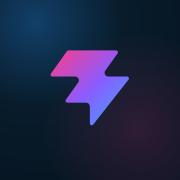
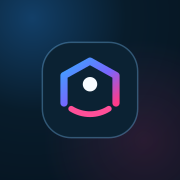
Align UI with master reference

diff --git a/src/platform/experience.css b/src/platform/experience.css
@@ -42,6 +42,7 @@
 }
 .pl-home-v7__identity { display: flex; align-items: center; gap: 8px; }
 .pl-home-v7__identity > span { display: grid; place-items: center; width: 28px; height: 28px; border-radius: 9px; background: linear-gradient(145deg, #ff3b89, #785cff 58%, #35b8ff); color: white; box-shadow: 0 0 20px rgba(120,92,255,.3); }
+.pl-home-v7__identity > img { display: block; width: 116px; height: auto; }
 .pl-home-v7__brand { margin: 0; font-size: 17px; font-weight: 900; }
 .pl-icon-button {
   display: inline-grid; place-items: center; width: 44px; height: 44px; border: 1px solid var(--xp-line);
@@ -120,6 +121,10 @@
 
 /* Shared page header, discover and spatial views */
 .pl-page-intro { display: grid; gap: 6px; padding: 8px 2px 0; }
+.pl-page-intro--actions { grid-template-columns: minmax(0,1fr) auto; align-items: start; gap: 14px; }
+.pl-page-intro__actions { display: inline-flex; gap: 7px; }
+.pl-page-intro__actions button { display: grid; place-items: center; width: 44px; height: 44px; border: 1px solid var(--xp-line); border-radius: 50%; background: rgba(12,29,48,.72); color: white; backdrop-filter: blur(18px); }
+.pl-page-intro__actions button[data-active='true'] { border-color: rgba(242,202,114,.38); background: rgba(242,202,114,.14); color: var(--xp-warm); }
 .pl-page-intro p, .pl-page-intro h1, .pl-page-intro span { margin: 0; }
 .pl-page-intro p { color: var(--xp-warm); font-size: 10px; font-weight: 900; }
 .pl-page-intro h1 { max-width: 14ch; font-family: var(--font-display); font-size: 34px; line-height: 1.08; }
@@ -185,6 +190,11 @@
 .pl-schedule-row__body strong, .pl-schedule-row__body small { overflow: hidden; text-overflow: ellipsis; white-space: nowrap; }
 .pl-schedule-row__body small { color: var(--xp-muted); font-size: 11px; }
 .pl-schedule-row__body em { width: fit-content; display: flex; align-items: center; gap: 3px; color: #ff718b; font-size: 9px; font-style: normal; font-weight: 900; }
+.pl-schedule-preview { display: grid; gap: 8px; }
+.pl-schedule-preview__note { margin: 6px 2px 2px; color: #8bc3ff; font-size: 10px; font-weight: 850; }
+.pl-schedule-row--preview { opacity: .84; cursor: default; }
+.pl-schedule-row--preview .pl-schedule-row__media { display: grid; place-items: center; border: 1px solid rgba(139,195,255,.18); background: linear-gradient(145deg, rgba(57,140,255,.2), rgba(255,59,137,.08)), #0c2138; }
+.pl-schedule-row--preview .pl-schedule-row__media > span { color: rgba(255,255,255,.64); font-size: 8px; font-weight: 900; }
 
 /* Floating fan navigation */
 .pl-nav--fan { left: 10px; right: 10px; bottom: calc(8px + env(safe-area-inset-bottom)); height: 70px; padding: 0; border: 1px solid rgba(255,255,255,.16); border-radius: 22px; background: rgba(18,18,20,.78); box-shadow: 0 16px 46px rgba(0,0,0,.48); backdrop-filter: blur(24px) saturate(1.15); -webkit-backdrop-filter: blur(24px) saturate(1.15); }
@@ -322,6 +332,12 @@
 .pl-ranking__score { display: grid; justify-items: end; color: var(--xp-warm); font-weight: 900; }
 .pl-ranking__score small { color: var(--xp-muted); font-size: 8px; }
 .pl-ranking__message { margin: 7px 0 0; padding: 16px; border: 1px solid rgba(242,202,114,.18); border-radius: 18px; background: linear-gradient(135deg, rgba(242,202,114,.1), rgba(75,163,255,.08)); color: rgba(255,255,255,.78); font-size: 12px; font-weight: 750; line-height: 1.6; text-align: center; }
+.pl-ranking__row:nth-of-type(1) { border-color: rgba(242,202,114,.42); background: linear-gradient(100deg, rgba(242,202,114,.15), rgba(12,29,48,.76) 48%); }
+.pl-ranking__row:nth-of-type(2) { border-color: rgba(205,220,234,.3); background: linear-gradient(100deg, rgba(205,220,234,.1), rgba(12,29,48,.74) 48%); }
+.pl-ranking__row:nth-of-type(3) { border-color: rgba(214,145,103,.28); background: linear-gradient(100deg, rgba(214,145,103,.1), rgba(12,29,48,.74) 48%); }
+.pl-ranking__row:nth-of-type(1) .pl-ranking__place { color: #f2ca72; }
+.pl-ranking__row:nth-of-type(2) .pl-ranking__place { color: #dbe8f2; }
+.pl-ranking__row:nth-of-type(3) .pl-ranking__place { color: #d69167; }
 
 .pl-spatial-map { min-height: 52dvh; background: #0d2940; }
 .pl-spatial-map__glow { background: radial-gradient(70% 60% at 70% 20%, rgba(75,163,255,.22), transparent 72%), linear-gradient(145deg, rgba(8,34,55,.2), rgba(5,18,33,.72)); }
@@ -354,13 +370,29 @@
 .pl-profile-stage__name { font-size: 38px; }
 .pl-profile-stage__body { bottom: 17px; }
 
-.pl-merch-market-hero { margin: 0; padding: 18px; border: 1px solid var(--xp-line); border-radius: 24px; background: radial-gradient(90% 120% at 100% 0%, rgba(75,163,255,.2), transparent 64%), rgba(12,29,48,.78); box-shadow: 0 18px 45px rgba(0,7,18,.3); }
+.pl-merch-market-hero { position: relative; margin: 0; padding: 18px 58px 18px 18px; border: 1px solid var(--xp-line); border-radius: 24px; background: radial-gradient(90% 120% at 100% 0%, rgba(75,163,255,.2), transparent 64%), rgba(12,29,48,.78); box-shadow: 0 18px 45px rgba(0,7,18,.3); }
 .pl-merch-market-hero p { color: #8bc3ff; }
 .pl-merch-market-hero h1 { font-size: 28px; }
+.pl-merch-market-hero__cart { position: absolute; top: 14px; right: 14px; display: grid; place-items: center; width: 42px; height: 42px; border: 1px solid var(--xp-line); border-radius: 50%; background: rgba(5,18,33,.52); color: white; }
 .pl-merch-card__photo { border: 1px solid rgba(255,255,255,.12); background: #0c2138; box-shadow: 0 12px 30px rgba(0,6,16,.28); }
 .pl-merch-card__photo > span { background: linear-gradient(145deg, rgba(75,163,255,.16), rgba(255,59,137,.08)), #0c2138; }
 .pl-merch-card__body p { color: #8bc3ff; }
 .pl-merch-card__cta { border: 1px solid var(--xp-line); background: rgba(12,29,48,.72); }
+.pl-merch-preview { display: grid; gap: 14px; }
+.pl-merch-preview > header { display: flex; align-items: end; justify-content: space-between; gap: 12px; }
+.pl-merch-preview > header p, .pl-merch-preview > header h2, .pl-merch-preview > header span { margin: 0; }
+.pl-merch-preview > header p { color: #8bc3ff; font-size: 9px; font-weight: 900; }
+.pl-merch-preview > header h2 { margin-top: 3px; font-size: 20px; }
+.pl-merch-preview > header span { max-width: 12ch; color: var(--xp-muted); font-size: 9px; line-height: 1.4; text-align: right; }
+.pl-merch-card--preview { opacity: .94; }
+.pl-merch-card--preview .pl-merch-card__photo { cursor: default; }
+.pl-merch-card__photo--preview { display: grid; place-items: center; }
+.pl-merch-card__photo--preview > span { display: grid; place-items: center; color: rgba(255,255,255,.72); font-size: 12px; font-weight: 900; letter-spacing: .12em; }
+.pl-merch-card__photo--1 > span { background: linear-gradient(145deg, rgba(66,160,255,.46), rgba(9,30,52,.82)); }
+.pl-merch-card__photo--2 > span { background: linear-gradient(145deg, rgba(255,59,137,.34), rgba(20,31,57,.86)); }
+.pl-merch-card__photo--3 > span { background: linear-gradient(145deg, rgba(117,94,255,.4), rgba(8,33,55,.88)); }
+.pl-merch-card__photo--4 > span { background: linear-gradient(145deg, rgba(242,202,114,.3), rgba(13,35,57,.88)); }
+.pl-merch-card--preview .pl-merch-card__cta:disabled { cursor: default; opacity: .62; }
 .pl-merch-empty-next { border-color: var(--xp-line); background: rgba(12,29,48,.72); }
 .pl-merch-empty-next .pl-btn, .pl-profile-auth-cta { background: #398cff; color: white; box-shadow: 0 12px 30px rgba(57,140,255,.24); }
 
@@ -412,12 +444,12 @@
 .pl-splash__video { position: absolute; z-index: -2; inset: 0; width: 100%; height: 100%; object-fit: cover; object-position: center 20%; }
 .pl-splash__shade { position: absolute; z-index: -1; inset: 0; background: linear-gradient(180deg, rgba(3,12,23,.18), rgba(4,14,26,.35) 42%, rgba(4,14,26,.97)); }
 .pl-splash__content { position: absolute; left: 24px; right: 24px; bottom: calc(28px + env(safe-area-inset-bottom)); display: grid; gap: 10px; }
-.pl-splash__logo { margin-bottom: 4px; }
+.pl-splash__logo { width: 168px; height: auto; margin-bottom: 4px; }
 .pl-splash__content p, .pl-splash__content h1 { margin: 0; }
 .pl-splash__content p { color: #9bc9f6; font-size: 10px; font-weight: 900; }
 .pl-splash__content h1 { max-width: none; font-family: var(--font-display); font-size: 46px; line-height: 1.02; white-space: nowrap; }
 .pl-splash__content button { min-height: 54px; display: flex; align-items: center; justify-content: space-between; margin-top: 14px; padding: 0 18px; border: 0; border-radius: 17px; background: #f5f9ff; color: #071322; font-weight: 900; }
-.pl-boot-logo { display: block; margin: min(28dvh, 220px) auto 18px; filter: drop-shadow(0 0 24px rgba(120,92,255,.34)); }
+.pl-boot-logo { display: block; width: 164px; height: auto; margin: min(28dvh, 220px) auto 18px; filter: drop-shadow(0 0 24px rgba(75,163,255,.26)); }
 
 .pl-install-card { position: relative; display: grid; grid-template-columns: 40px minmax(0,1fr) auto; align-items: center; gap: 11px; padding: 12px 42px 12px 12px; border: 1px solid rgba(125,183,236,.2); border-radius: 20px; background: linear-gradient(135deg, rgba(57,140,255,.14), rgba(255,59,137,.07)), rgba(9,27,46,.78); box-shadow: 0 14px 38px rgba(0,7,18,.25); backdrop-filter: blur(22px); -webkit-backdrop-filter: blur(22px); }
 .pl-install-card__icon { display: grid; place-items: center; width: 40px; height: 40px; border-radius: 13px; background: linear-gradient(135deg, rgba(255,59,137,.88), rgba(75,163,255,.92)); color: white; }

diff --git a/src/platform/screens/SearchScreen.tsx b/src/platform/screens/SearchScreen.tsx
@@ -4,7 +4,7 @@ import { getFeaturedEvent, listVoteRankingNamed, searchPerformers } from '../lib
 import type { Performer } from '../lib/types'
 
 type SearchProps = { onOpenPerformer: (id: string) => void; onWatchLive?: (id: string) => void }
-type DiscoverMode = 'all' | 'live' | 'popular' | 'new' | 'ranking'
+type DiscoverMode = 'all' | 'popular' | 'new' | 'genre' | 'ranking'
 type RankingPeriod = 'today' | 'week' | 'month'
 
 export function SearchScreen({ onOpenPerformer, onWatchLive }: SearchProps) {
@@ -12,6 +12,7 @@ export function SearchScreen({ onOpenPerformer, onWatchLive }: SearchProps) {
   const [genre, setGenre] = useState('')
   const [mode, setMode] = useState<DiscoverMode>('all')
   const [rankingPeriod, setRankingPeriod] = useState<RankingPeriod>('today')
+  const [searchOpen, setSearchOpen] = useState(false)
   const [filtersOpen, setFiltersOpen] = useState(false)
   const [region, setRegion] = useState('')
   const [rows, setRows] = useState<Performer[]>([])
@@ -25,7 +26,7 @@ export function SearchScreen({ onOpenPerformer, onWatchLive }: SearchProps) {
     setLoading(true)
     setError(null)
     const timer = window.setTimeout(() => {
-      searchPerformers(q, { liveOnly: mode === 'live', genre, country: region })
+      searchPerformers(q, { genre, country: region })
         .then((result) => { if (active) setRows(result) })
         .catch(() => { if (active) setError('検索できませんでした。通信を確認して、もう一度お試しください。') })
         .finally(() => { if (active) setLoading(false) })
@@ -52,23 +53,25 @@ export function SearchScreen({ onOpenPerformer, onWatchLive }: SearchProps) {
 
   return (
     <main className="pl-experience pl-discover-v7">
-      <header className="pl-page-intro"><p>DISCOVER</p><h1>見つける</h1><span>次の好きな人と、偶然出会う。</span></header>
-      <div className="pl-search-v7">
+      <header className="pl-page-intro pl-page-intro--actions">
+        <div><p>{mode === 'ranking' ? 'CHEER RANKING' : 'DISCOVER'}</p><h1>{mode === 'ranking' ? 'ランキング' : '見つける'}</h1><span>{mode === 'ranking' ? 'みんなの応援が、次のステージをつくる。' : '次の好きな人と、偶然出会う。'}</span></div>
+        <div className="pl-page-intro__actions"><button type="button" onClick={() => { setMode('all'); setSearchOpen((open) => !open) }} aria-label="検索"><Search size={20} /></button><button type="button" data-active={mode === 'ranking'} onClick={() => setMode('ranking')} aria-label="ランキング"><Crown size={20} /></button></div>
+      </header>
+      {mode !== 'ranking' && searchOpen ? <div className="pl-search-v7">
         <Search size={20} />
         <input aria-label="パフォーマーを検索" placeholder="名前・ジャンル・地域" value={q} onChange={(event) => setQ(event.target.value)} />
         <button type="button" onClick={() => setFiltersOpen((open) => !open)} aria-label="絞り込み"><SlidersHorizontal size={19} /></button>
-      </div>
-      {filtersOpen ? <div className="pl-filter-glass"><input placeholder="ジャンル" value={genre} onChange={(event) => setGenre(event.target.value)} /><input placeholder="国・都市" value={region} onChange={(event) => setRegion(event.target.value)} /></div> : null}
+      </div> : null}
+      {mode !== 'ranking' && searchOpen && filtersOpen ? <div className="pl-filter-glass"><input placeholder="ジャンル" value={genre} onChange={(event) => setGenre(event.target.value)} /><input placeholder="国・都市" value={region} onChange={(event) => setRegion(event.target.value)} /></div> : null}
 
-      <div className="pl-discover-tabs" role="tablist">
+      {mode !== 'ranking' ? <div className="pl-discover-tabs" role="tablist">
         <button type="button" data-active={mode === 'all'} onClick={() => setMode('all')}><Sparkles size={15} />おすすめ</button>
-        <button type="button" data-active={mode === 'live'} onClick={() => setMode('live')}><Radio size={15} />LIVE</button>
-        <button type="button" data-active={mode === 'popular'} onClick={() => setMode('popular')}><TrendingUp size={15} />人気</button>
-        <button type="button" data-active={mode === 'new'} onClick={() => setMode('new')}>新着</button>
-        <button type="button" data-active={mode === 'ranking'} onClick={() => setMode('ranking')}><Crown size={15} />ランキング</button>
-      </div>
+        <button type="button" data-active={mode === 'popular'} onClick={() => setMode('popular')}><TrendingUp size={15} />急上昇</button>
+        <button type="button" data-active={mode === 'new'} onClick={() => setMode('new')}>新人</button>
+        <button type="button" data-active={mode === 'genre'} onClick={() => setMode('genre')}><Radio size={15} />ジャンル</button>
+      </div> : null}
 
-      {genres.length > 0 && mode === 'all' ? <div className="pl-genre-row">{genres.map((item) => <button type="button" key={item} data-active={genre === item} onClick={() => setGenre((current) => current === item ? '' : item)}>{item}</button>)}</div> : null}
+      {genres.length > 0 && mode === 'genre' ? <div className="pl-genre-row">{genres.map((item) => <button type="button" key={item} data-active={genre === item} onClick={() => setGenre((current) => current === item ? '' : item)}>{item}</button>)}</div> : null}
       {error ? <p className="pl-error">{error}</p> : null}
       {loading ? <p className="pl-inline-loading" role="status">パフォーマーを読み込み中…</p> : null}
       {!loading && !error && visibleRows.length === 0 ? <p className="pl-inline-empty">条件を少し変えると、別のパフォーマーに出会えます。</p> : null}

diff --git a/src/platform/screens/MerchScreens.tsx b/src/platform/screens/MerchScreens.tsx
@@ -15,7 +15,7 @@ import { formatYen } from '../lib/money'
 import type { MerchOrder, MerchProduct } from '../lib/types'
 import { PLATFORM_PATH, spaGo } from '../../app/routes'
 import { trackProductEvent, useTrackView } from '../lib/track'
-import { ShoppingBag, Ticket, UsersRound } from 'lucide-react'
+import { ShoppingBag, ShoppingCart, Ticket, UsersRound } from 'lucide-react'
 
 type MerchListProps = {
   onOpenProduct: (id: string) => void
@@ -31,6 +31,13 @@ function orderBuyerLabel(order: MerchOrder) {
   const email = order.checkout_customer_email || order.buyer_email
   return email ? `${name} · ${email}` : name
 }
+
+const MERCH_PREVIEW = [
+  { name: 'オフィシャルTシャツ', type: 'WEAR' },
+  { name: 'フェイスタオル', type: 'TOWEL' },
+  { name: 'ステッカーセット', type: 'STICKER' },
+  { name: 'イベントパス', type: 'PASS' },
+]
 
 export function MerchListScreen({ onOpenProduct, onOpenSearch }: MerchListProps) {
   const { user } = useAuth()
@@ -69,6 +76,7 @@ export function MerchListScreen({ onOpenProduct, onOpenSearch }: MerchListProps)
   return (
     <>
       <section className="pl-merch-market-hero" aria-labelledby="pl-merch-market-title">
+        <span className="pl-merch-market-hero__cart" aria-label="カートは商品公開後に利用できます"><ShoppingCart size={20} /></span>
         <p>{lang === 'ja' ? 'グッズ' : 'Merch'}</p>
         <h1 id="pl-merch-market-title">{lang === 'ja' ? '応援を、持ち帰る' : 'Take your support home'}</h1>
         <span>
@@ -85,13 +93,17 @@ export function MerchListScreen({ onOpenProduct, onOpenSearch }: MerchListProps)
       {error ? <p className="pl-error">{error}</p> : null}
       {loading ? <p className="pl-muted">Loading…</p> : null}
       {market === 'goods' && !loading && products.length === 0 ? (
-        <section className="pl-merch-empty-next" aria-label="グッズ準備中">
-          <p>グッズは公開準備中です。</p>
-          <h2>まず応援したいパフォーマーを見つける</h2>
-          <span>プロフィールをフォローしておくと、商品公開やLIVEに戻りやすくなります。</span>
-          <button type="button" className="pl-btn pl-btn--block" onClick={onOpenSearch ?? (() => spaGo(PLATFORM_PATH))}>
-            パフォーマーを探す
-          </button>
+        <section className="pl-merch-preview" aria-label="公開予定のグッズ表示例">
+          <header><div><p>COMING SOON</p><h2>公開予定のグッズ</h2></div><span>商品公開後に購入できます</span></header>
+          <div className="pl-merch-grid" role="list">
+            {MERCH_PREVIEW.map((item, index) => (
+              <article key={item.name} className="pl-merch-card pl-merch-card--preview" role="listitem" aria-disabled="true">
+                <div className={`pl-merch-card__photo pl-merch-card__photo--preview pl-merch-card__photo--${index + 1}`}><span>{item.type}</span><em>COMING SOON</em></div>
+                <div className="pl-merch-card__body"><strong className="pl-merch-card__name">{item.name}</strong><p>価格公開予定</p><button type="button" className="pl-merch-card__cta" disabled>近日公開</button></div>
+              </article>
+            ))}
+          </div>
+          <button type="button" className="pl-action pl-action--glass" onClick={onOpenSearch ?? (() => spaGo(PLATFORM_PATH))}>応援したい人を見つける</button>
         </section>
       ) : null}
       {market === 'goods' ? <div className="pl-merch-grid" role="list">

diff --git a/src/platform/PlatformApp.tsx b/src/platform/PlatformApp.tsx
@@ -87,8 +87,7 @@ function PlatformTopBar({ accountLabel, onAccount }: { accountLabel: string; onA
   return (
     <header className="pl-unified-topbar">
       <button type="button" className="pl-unified-topbar__brand" onClick={() => spaGo(FESTIVAL_PATH)} aria-label={t('appName')}>
-        <BrandLogo size={28} className="pl-unified-topbar__logo" />
-        <span>{t('appName')}</span>
+        <BrandLogo size={24} variant="lockup" className="pl-unified-topbar__logo" />
       </button>
       <div className="pl-unified-topbar__actions">
         <LanguageToggle />
@@ -379,7 +378,7 @@ function PlatformShell() {
     return (
       <div className="pl-app">
         <div className="pl-shell">
-          <BrandLogo size={42} className="pl-boot-logo" />
+          <BrandLogo size={36} variant="lockup" className="pl-boot-logo" />
           <p className="pl-muted" role="status">登録情報を確認しています…</p>
         </div>
       </div>
@@ -529,7 +528,6 @@ function PlatformShell() {
       return (
         <div className="pl-app">
           <div className={`pl-shell${liveShell ? ' pl-shell--live' : ''}`}>
-            {guestShowNav && screen !== 'fan-home' ? <PlatformTopBar accountLabel={t('signIn')} onAccount={() => setScreen('auth')} /> : null}
             {tipFlash ? (
               <div className={`pl-tip-flash${tipFlash === 'tipSuccess' || tipFlash === 'merchSuccess' ? ' pl-tip-flash--ok' : ''}`} role="status">
                 {tipFlash === 'tipSuccess' || tipFlash === 'tipCancelled' || tipFlash === 'merchSuccess' || tipFlash === 'merchCancelled' ? t(tipFlash) : tipFlash}
@@ -744,7 +742,7 @@ function PlatformShell() {
   return (
     <div className="pl-app">
       <div className={`pl-shell${liveShell ? ' pl-shell--live' : ''}`}>
-        {showNav && screen !== 'fan-home' ? <PlatformTopBar accountLabel={t('account')} onAccount={() => { setPerformerId(null); setScreen(role === 'fan' ? 'profile' : homeForRole(role)) }} /> : null}
+        {showNav && screen !== 'fan-home' && navRole !== 'fan' ? <PlatformTopBar accountLabel={t('account')} onAccount={() => { setPerformerId(null); setScreen(role === 'fan' ? 'profile' : homeForRole(role)) }} /> : null}
         {tipFlash ? (
           <div className={`pl-tip-flash${tipFlash === 'tipSuccess' || tipFlash === 'merchSuccess' ? ' pl-tip-flash--ok' : ''}`} role="status">
             {tipFlash === 'tipSuccess' || tipFlash === 'tipCancelled' || tipFlash === 'merchSuccess' || tipFlash === 'merchCancelled' ? t(tipFlash) : tipFlash}

diff --git a/src/platform/screens/MapScheduleScreen.tsx b/src/platform/screens/MapScheduleScreen.tsx
@@ -18,6 +18,13 @@ type Props = {
 
 type View = 'map' | 'schedule'
 
+const PREVIEW_TIMES = [
+  { time: '10:00', label: 'モーニングステージ' },
+  { time: '11:30', label: 'ストリートステージ' },
+  { time: '14:30', label: 'アフタヌーンステージ' },
+  { time: '16:00', label: 'スペシャルステージ' },
+]
+
 function timeLabel(value: string) {
   return String(value || '').slice(0, 5)
 }
@@ -133,7 +140,19 @@ export function MapScheduleScreen({ onOpenPerformer, onWatchLive }: Props) {
           <div className="pl-schedule-v7__dates" role="tablist" aria-label="開催日">
             {dates.map((date) => <button type="button" role="tab" aria-selected={selectedDate === date} data-active={selectedDate === date} key={date} onClick={() => setSelectedDate(date)}><strong>{date.slice(8)}</strong><small>10月</small></button>)}
           </div>
-          {dateSlots.length === 0 ? <p className="pl-inline-empty">この日の出演予定は公開され次第表示されます。</p> : null}
+          {dateSlots.length === 0 ? (
+            <div className="pl-schedule-preview" aria-label="出演時間枠プレビュー">
+              <p className="pl-schedule-preview__note">出演者公開前 · 時間枠プレビュー</p>
+              {PREVIEW_TIMES.map((item) => (
+                <div key={item.time} className="pl-schedule-row pl-schedule-row--preview" aria-disabled="true">
+                  <span className="pl-schedule-row__time"><Clock3 size={15} />{item.time}</span>
+                  <span className="pl-schedule-row__media"><span>HAKU</span></span>
+                  <span className="pl-schedule-row__body"><strong>出演者は後日発表</strong><small>{item.label} · 会場調整中</small></span>
+                  <ChevronRight size={18} />
+                </div>
+              ))}
+            </div>
+          ) : null}
           {dateSlots.map((slot) => {
             const act = slot.performer_id ? performerById.get(slot.performer_id) : null
             const venue = venueById.get(slot.venue_id)

diff --git a/src/platform/screens/FanProfileScreen.tsx b/src/platform/screens/FanProfileScreen.tsx
@@ -46,6 +46,7 @@ export function FanProfileScreen({ onOpenPerformer, onOpenProduct, onOpenNotific
   }, [user])
 
   if (!profile) return <p className="pl-muted">Loading…</p>
+  const username = (profile.email?.split('@')[0] || profile.id.slice(0, 8)).replace(/[^a-zA-Z0-9._-]/g, '')
 
   return (
     <>
@@ -58,9 +59,9 @@ export function FanProfileScreen({ onOpenPerformer, onOpenProduct, onOpenNotific
         <div>
           <p>MY STREET</p>
           <h1>{profile.display_name}</h1>
-          <span>{profile.email ?? user?.email}</span>
+          <span>@{username || profile.id.slice(0, 8)}</span>
         </div>
-        <div className="pl-my-hero__stats"><span><strong>{follows.length}</strong>フォロー</span><span><strong>{orders.length}</strong>購入</span><span><strong>0</strong>応援</span></div>
+        <div className="pl-my-hero__stats"><span><strong>{follows.length}</strong>フォロー</span><span><strong>0</strong>フォロワー</span><span><strong>0</strong>応援した数</span></div>
       </section>
       {error ? <p className="pl-error">{error}</p> : null}
 
@@ -89,7 +90,7 @@ export function FanProfileScreen({ onOpenPerformer, onOpenProduct, onOpenNotific
         <div><span><Ticket size={19} />チケット</span><small>準備中</small></div>
         <button type="button" onClick={() => scrollTo('pl-my-orders')}><span><ShoppingBag size={19} />グッズ購入履歴</span><ChevronRight size={18} /></button>
         <button type="button" onClick={onOpenNotifications}><span><Bell size={19} />通知</span><ChevronRight size={18} /></button>
-        <div><span><Settings size={19} />設定</span><small>準備中</small></div>
+        <div><span><Settings size={19} />設定・ヘルプ</span><small>準備中</small></div>
       </section>
       <button type="button" className="pl-btn pl-btn--block pl-btn--ghost" onClick={() => void signOut()}>{t('signOut')}</button>
 

diff --git a/src/brand/BrandLogo.tsx b/src/brand/BrandLogo.tsx
@@ -1,22 +1,24 @@
 type BrandLogoProps = {
   size?: number
   className?: string
+  variant?: 'mark' | 'lockup'
 }
 
-/** Official logo slot. Drop a file at /logo.svg to replace the default mark. */
-export function BrandLogo({ size = 28, className }: BrandLogoProps) {
+/** Official logo slots. Replace /logo.svg and /logo-mark.svg without changing app code. */
+export function BrandLogo({ size = 28, className, variant = 'mark' }: BrandLogoProps) {
+  const lockup = variant === 'lockup'
   return (
     <img
       className={className}
-      src="/logo.svg"
-      width={size}
+      src={lockup ? '/logo.svg' : '/logo-mark.svg'}
+      width={lockup ? Math.round(size * 3.45) : size}
       height={size}
       alt=""
       onError={(e) => {
         const el = e.currentTarget
         if (el.dataset.fallback === '1') return
         el.dataset.fallback = '1'
-        el.src = '/favicon.svg'
+        el.src = lockup ? '/logo-mark.svg' : '/favicon.svg'
       }}
     />
   )

diff --git a/src/platform/screens/FanHomeScreen.tsx b/src/platform/screens/FanHomeScreen.tsx
@@ -108,7 +108,7 @@ export function FanHomeScreen({ onOpenPerformer, onWatchLive, onOpenSearch, onOp
   return (
     <main className="pl-experience pl-home-v7">
       <header className="pl-home-v7__masthead">
-        <div className="pl-home-v7__identity"><span><BrandLogo size={20} /></span><p className="pl-home-v7__brand">大道芸博</p></div>
+        <div className="pl-home-v7__identity"><BrandLogo size={29} variant="lockup" /></div>
         <div className="pl-home-v7__tools">
           <button type="button" className="pl-icon-button" onClick={onOpenSearch} aria-label="パフォーマーを検索"><Search size={19} /></button>
           <button type="button" className="pl-icon-button" onClick={onOpenNotifications} aria-label="通知"><Bell size={19} /></button>

diff --git a/src/platform/screens/SplashScreen.tsx b/src/platform/screens/SplashScreen.tsx
@@ -49,8 +49,7 @@ export function SplashScreen({ onStart }: { onStart: () => void }) {
       ) : null}
       <div className="pl-splash__shade" aria-hidden="true" />
       <section className="pl-splash__content">
-        <BrandLogo size={58} className="pl-splash__logo" />
-        <p>DAIDOUGEI HAKU</p>
+        <BrandLogo size={44} variant="lockup" className="pl-splash__logo" />
         <h1>街は、<br />ステージになる。</h1>
         <button type="button" onClick={onStart}>はじめる <ArrowRight size={19} /></button>
       </section>

diff --git a/src/platform/platform.css b/src/platform/platform.css
@@ -200,6 +200,8 @@ a { color: var(--neon); }
 
 .pl-unified-topbar__logo {
   flex: 0 0 auto;
+  width: 102px;
+  height: auto;
 }
 
 .pl-unified-topbar__brand span {
